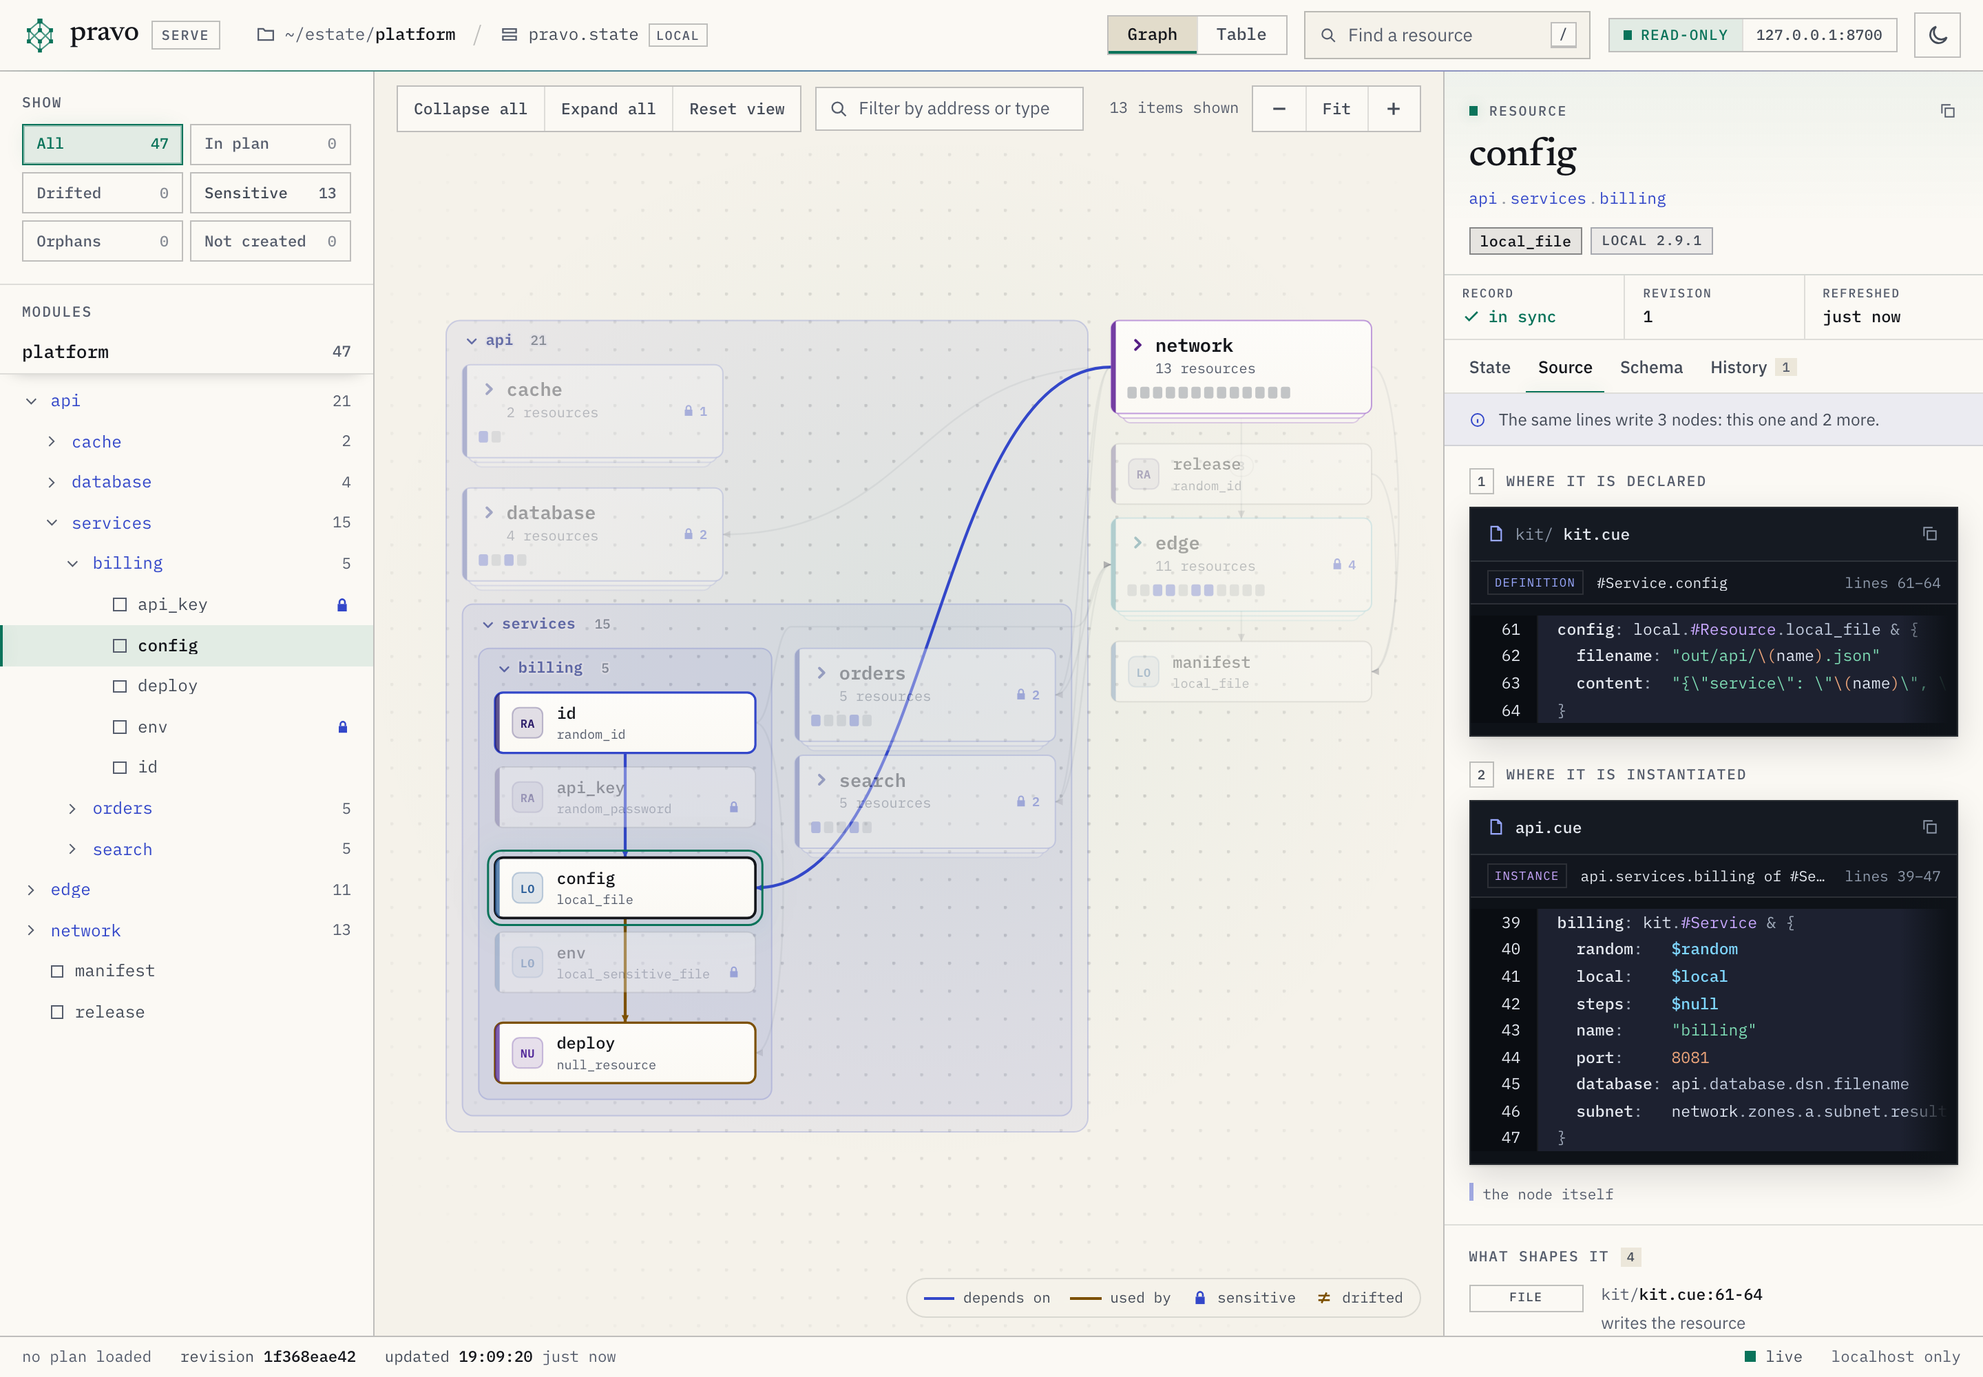
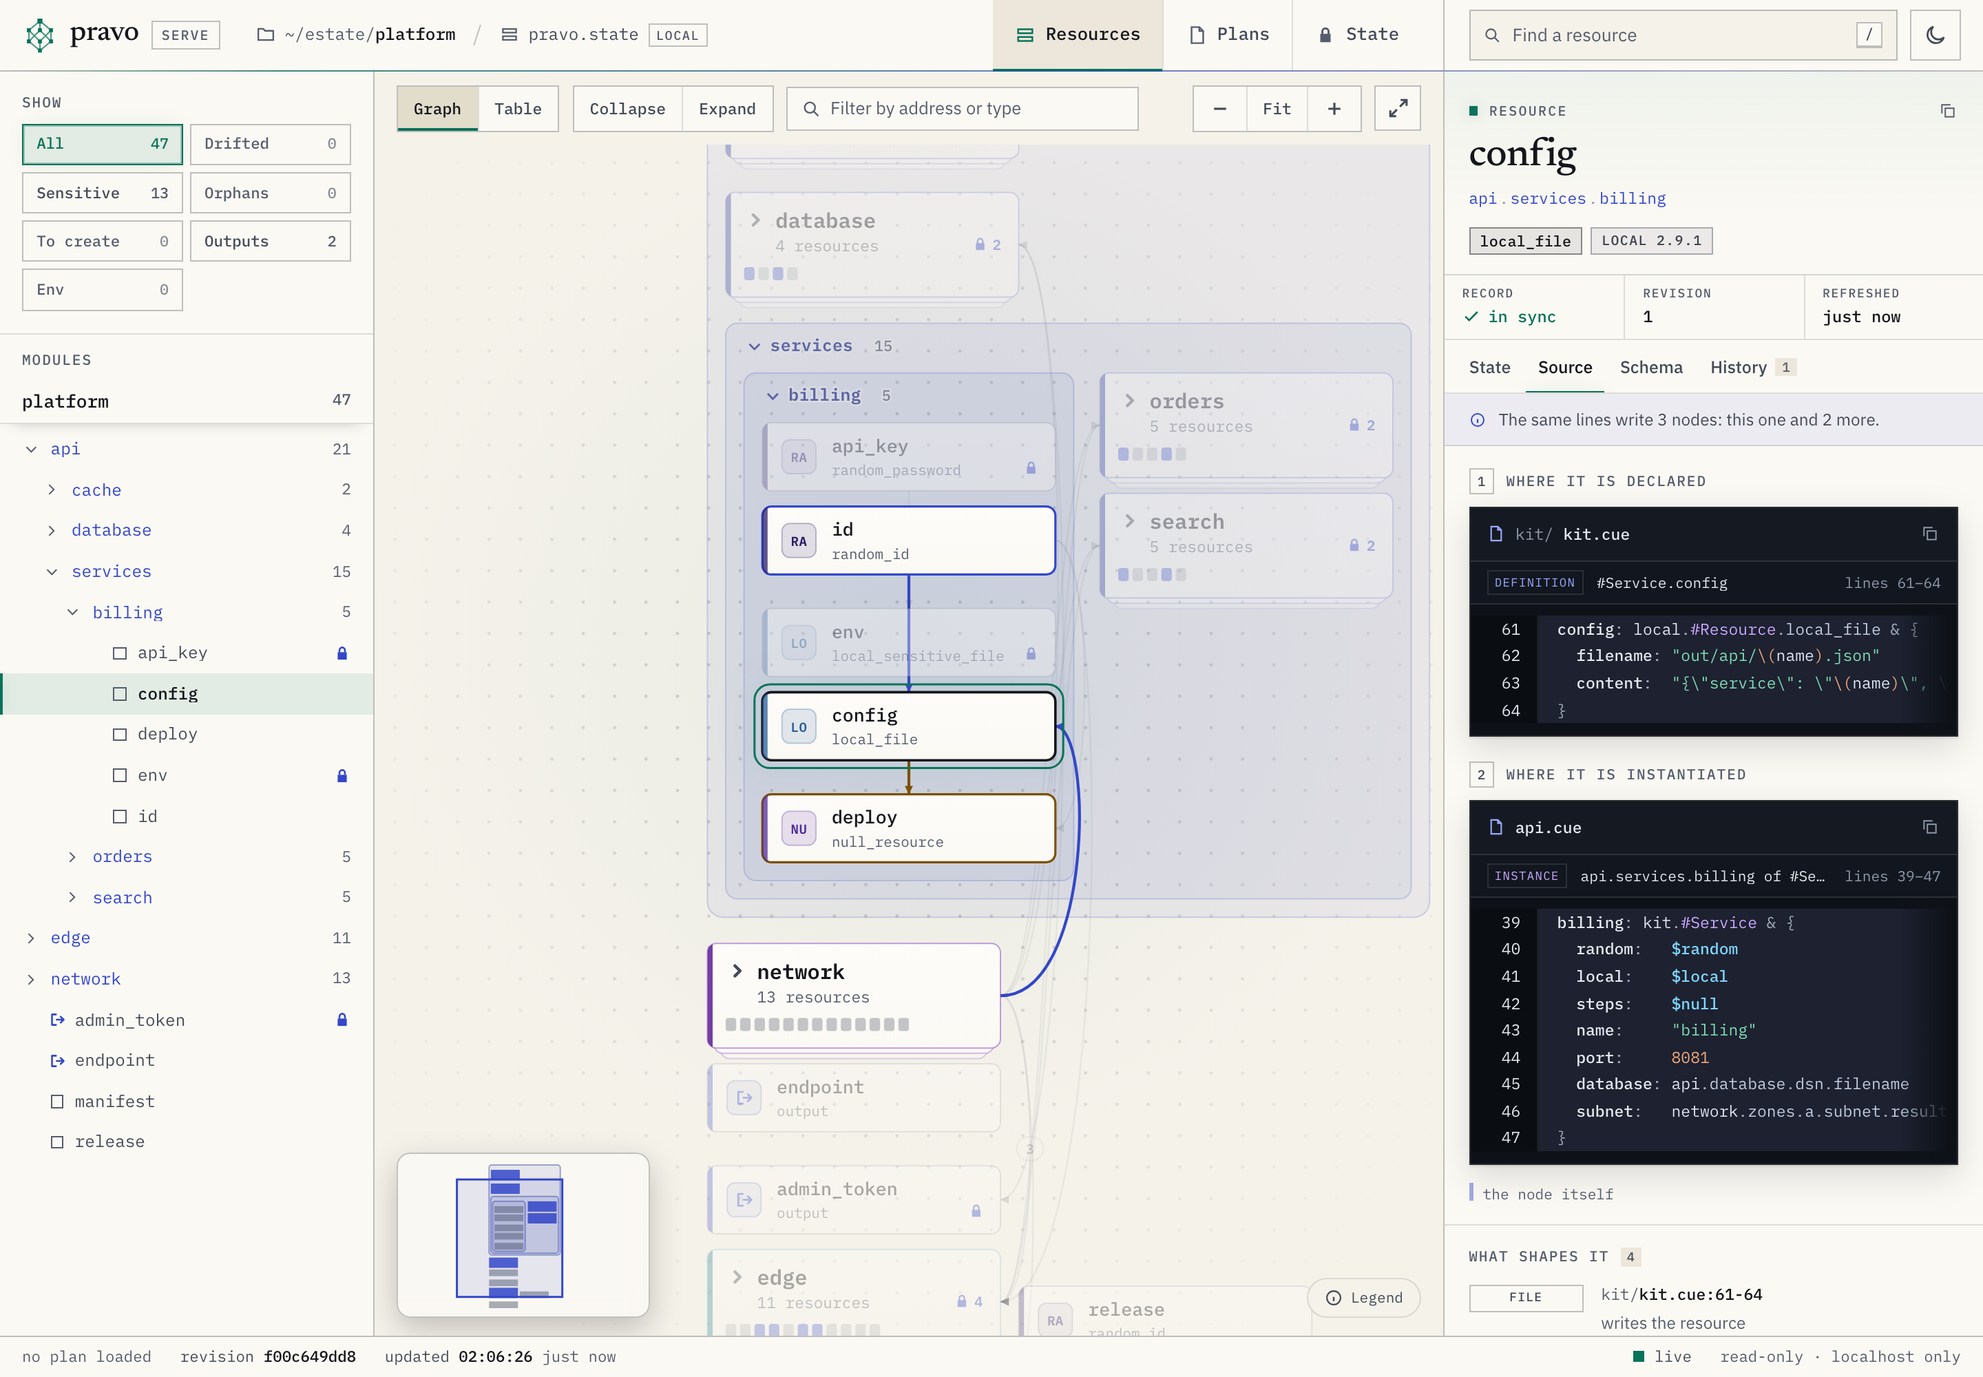
docs: regenerate the screenshots of pravo serve for the new layout, and add the Plans section

diff --git a/internal/serve/web/assets/app.css b/internal/serve/web/assets/app.css
@@ -503,5 +503,6 @@ body[data-full="1"]:has(.app:not([data-sel="1"])) .topright { border-left-color:
 .pl-title { margin: 0 0 .4rem; font: 500 1.5rem/1.15 var(--font-display); letter-spacing: -.01em; }
 .pl-lede { margin: 0 0 1.2rem; color: var(--text-2); font-size: .84rem; line-height: 1.5; }
 .pl .rail-plans { max-height: none; overflow: visible; border-top: 0; padding-top: 0; }
-.pl .rp-head { padding-right: 0; }
+.pl .rp-head { padding-right: 0; justify-content: flex-end; }
+.pl .rp-head .h { display: none; }
 .pl .rp { padding-left: .4rem; padding-right: .4rem; }

diff --git a/tools/serveshots/shots.go b/tools/serveshots/shots.go
@@ -56,7 +56,7 @@ var (
 	fragmentTabs    = []string{"state", "source", "schema", "history", "change"}
 	fragmentThemes  = []string{"light", "dark"}
 	fragmentFilters = []string{"plan", "drifted", "sensitive", "orphans", "declared"}
-	fragmentViews   = []string{"graph", "table", "access"}
+	fragmentViews   = []string{"graph", "table", "access", "plans"}
 )
 
 // String is the fragment without the leading #, in the order of the deep-link
@@ -269,6 +269,8 @@ func allShots() []Shot {
 	// badges and the ring of an overlap; the plan of ana is laid over the graph.
 	// The third expired, and is laid over the graph in its own picture.
 	s = append(s, both("plans", "platform", situationStored, Fragment{Sel: ordersConfig, Tab: "change", Plan: "@ana", Collapse: []string{"network", "edge"}})...)
+	// The Plans section, with the row of the plan of ana open.
+	s = append(s, shot("plans-list-dark", "platform", situationStored, Fragment{View: "plans", Plan: "@ana"}))
 	s = append(s, shot("plan-expired-dark", "platform", situationStored, Fragment{Plan: "@ci", Collapse: []string{"network", "api"}}))
 	s = append(s,
 		shot("drift-dark", "platform", situationChanged, Fragment{Sel: dnsRecords, Tab: "state", Filter: "drifted"}),

diff --git a/tools/serveshots/shots_test.go b/tools/serveshots/shots_test.go
@@ -63,6 +63,7 @@ var wantShots = []string{
 	"source-dark", "source-light",
 	"plan-dark", "plan-light",
 	"plans-dark", "plans-light",
+	"plans-list-dark",
 	"plan-expired-dark",
 	"drift-dark",
 	"sensitive-dark",

diff --git a/docs/how-to/explore-your-estate.md b/docs/how-to/explore-your-estate.md
@@ -172,8 +172,8 @@ pravo serve --plan change.plan
 A resource that the plan changes carries a badge and a ring in the colour of its action, and the legend names create, update, replace, delete and not read. A resource that the plan did not run reads `not read`. The In plan chip counts the resources that the plan changes, and the status bar says how many of the resources the plan ran, as `planned 7 of 48`, and how many it did not read. With nothing selected, the inspector shows the summary of the plan: the resources to add, change, destroy and read, the blast radius, the file and when it was made. A plan that cannot be applied, because the specification or the state changed after it was made, is marked stale and shown with the reasons.
 
 :::figure The platform with a saved plan, with `network` and `edge` closed. The port of `orders` changed, which replaces its configuration, its deploy step and its route. The Change tab of `api.services.orders.config` shows the action, the reasons and the attribute that forces the replacement.
-<a class="shot shot-dark" href="../img/serve/plan-dark.png"><img src="../img/serve/plan-dark.png" width="1440" height="900" alt="The viewer with a saved plan loaded. The module api is open, with the module orders open inside its services lane: its resources config and deploy carry the badge of the action replace. The cards for network and edge show the counts of the changes inside them, and the status bar says planned 7 of 48. The inspector shows the Change tab of api.services.orders.config: the action replace, the reasons the plan gives, the attribute content that forces the replacement, and the content before and after the change." loading="lazy"></a>
-<a class="shot shot-light" href="../img/serve/plan-light.png"><img src="../img/serve/plan-light.png" width="1440" height="900" alt="The viewer with a saved plan loaded. The module api is open, with the module orders open inside its services lane: its resources config and deploy carry the badge of the action replace. The cards for network and edge show the counts of the changes inside them, and the status bar says planned 7 of 48. The inspector shows the Change tab of api.services.orders.config: the action replace, the reasons the plan gives, the attribute content that forces the replacement, and the content before and after the change." loading="lazy"></a>
+<a class="shot shot-dark" href="../img/serve/plan-dark.png"><img src="../img/serve/plan-dark.png" width="1440" height="900" alt="The viewer with a saved plan loaded. A strip under the bar names the plan file, with the counts of its changes and its age. The module api is open, with the module orders open inside its services lane: its resources config and deploy carry the badge of the action replace. The cards for network and edge show the counts of the changes inside them, and the status bar says planned 7 of 48. The inspector shows the Change tab of api.services.orders.config: the action replace, the reasons the plan gives, the attribute content that forces the replacement, and the content before and after the change." loading="lazy"></a>
+<a class="shot shot-light" href="../img/serve/plan-light.png"><img src="../img/serve/plan-light.png" width="1440" height="900" alt="The viewer with a saved plan loaded. A strip under the bar names the plan file, with the counts of its changes and its age. The module api is open, with the module orders open inside its services lane: its resources config and deploy carry the badge of the action replace. The cards for network and edge show the counts of the changes inside them, and the status bar says planned 7 of 48. The inspector shows the Change tab of api.services.orders.config: the action replace, the reasons the plan gives, the attribute content that forces the replacement, and the content before and after the change." loading="lazy"></a>
 :::
 
 The Change tab lists the reasons that the plan gives, the attributes that force a replacement and each attribute that changes with its value before and after. A value that the viewer withholds is withheld in the plan too. A value that is not known until the apply reads `known after apply`.
@@ -191,9 +191,13 @@ The Plans tab of the bar, or `p`, lists the plans of the state. Each row is one 
 
 Click a row to open it. It shows the reason, what overlaps, when the plan expires, the command that made it and the command that applies it, with a button that copies it. A second click, or Esc, closes it. The button View on a row lays the plan over the graph, as a saved plan is in step 6, and goes to Resources. The graph shows its actions, the Change tab shows its attributes, and a strip under the bar names it. The button with the cross in the strip stops showing the plan.
 
-:::figure The platform with the plan of `ana` laid over the graph. The plan of `ben` also replaces what writes `orders`, so those resources carry two discs and a ring, and the sidebar says that the plans overlap.
-<a class="shot shot-dark" href="../img/serve/plans-dark.png"><img src="../img/serve/plans-dark.png" width="1440" height="900" alt="The viewer with a stored plan laid over the graph. The sidebar section Plans lists two pending plans, each titled with the note its author wrote: new ports for orders and search by ben, and move orders to port 9082 by ana, with the plan id in small type under the title. The plan of ana is selected: its row shows a box that says the plans overlap and names the plan of ben, a closed part for the expiry and the command, and the command pravo apply with a button that copies it. A bar above the graph names the plan with the badge A, the chip pending and the counts +3 and -3. In the graph the resources config and deploy of api.services.orders carry the badge of the action replace, a ring, and the discs A and B. The inspector shows the Change tab of config. A Plans cell says that 2 open plans change it, and the attribute content is marked as forcing replacement." loading="lazy"></a>
-<a class="shot shot-light" href="../img/serve/plans-light.png"><img src="../img/serve/plans-light.png" width="1440" height="900" alt="The viewer with a stored plan laid over the graph. The sidebar section Plans lists two pending plans, each titled with the note its author wrote: new ports for orders and search by ben, and move orders to port 9082 by ana, with the plan id in small type under the title. The plan of ana is selected: its row shows a box that says the plans overlap and names the plan of ben, a closed part for the expiry and the command, and the command pravo apply with a button that copies it. A bar above the graph names the plan with the badge A, the chip pending and the counts +3 and -3. In the graph the resources config and deploy of api.services.orders carry the badge of the action replace, a ring, and the discs A and B. The inspector shows the Change tab of config. A Plans cell says that 2 open plans change it, and the attribute content is marked as forcing replacement." loading="lazy"></a>
+:::figure The Plans section. The plan of `ana` is the one laid over the resources, so its row says Viewing and is tinted. Each row carries the status, the author, the age, the counts and a ring for the time that is left.
+<a class="shot" href="../img/serve/plans-list-dark.png"><img src="../img/serve/plans-list-dark.png" width="1440" height="900" alt="The Plans section of the viewer. Two pending plans are listed: new ports for orders and search by ben, and move orders to port 9082 by ana. Each row has the chip pending, the author, the age, the counts, a ring for the time that is left, a mark of two rings for the overlap and the plan id in small type. A View button stands at the right of each row; on the row of ana it reads Viewing and the row is tinted." loading="lazy"></a>
+:::
+
+:::figure The platform with the plan of `ana` laid over the graph. The plan of `ben` also replaces what writes `orders`, so those resources carry two discs and a ring, and the strip under the bar names the plan that is laid over them.
+<a class="shot shot-dark" href="../img/serve/plans-dark.png"><img src="../img/serve/plans-dark.png" width="1440" height="900" alt="The viewer with a stored plan laid over the graph. A strip under the bar names the plan: the badge A, the note move orders to port 9082, the id, the chip pending, the counts +3 and −3, ana and the age, a ring for the time that is left and a cross at the right. The graph shows config and deploy of orders with the action replace, each with the discs A and B and a ring where the two plans overlap. The inspector shows the Change tab of config: replace, the reasons and the content that changes." loading="lazy"></a>
+<a class="shot shot-light" href="../img/serve/plans-light.png"><img src="../img/serve/plans-light.png" width="1440" height="900" alt="The viewer with a stored plan laid over the graph. A strip under the bar names the plan: the badge A, the note move orders to port 9082, the id, the chip pending, the counts +3 and −3, ana and the age, a ring for the time that is left and a cross at the right. The graph shows config and deploy of orders with the action replace, each with the discs A and B and a ring where the two plans overlap. The inspector shows the Change tab of config: replace, the reasons and the content that changes." loading="lazy"></a>
 :::
 
 Look for the discs before you apply. Each disc on a resource is the initial of the author of a plan that can be applied and changes it. A resource with two discs and a ring is one that two people have planned and not applied. A plan that has applied its change on a resource has no disc there. Applying one of the plans makes the other stale, or partly stale when its other changes can still be applied, because the resource is then at another revision. The Plans cell of the resource, above the tabs, lists the plans, and a click on a disc lays that plan over the graph. The legend names `plan author` and `overlap`.
@@ -204,8 +208,8 @@ The viewer applies nothing and has no control that approves or removes a plan. C
 
 Choose All to list the plans that cannot be applied: the stale, the applied and the expired, until a collection removes them. A plan that cannot be applied has no command to copy, and none of its resources carries a disc.
 
-:::figure The plan of `ci` under All. It expired two days ago. Its row has a note instead of a command, and the inspector shows the plan: its counts, who made it, when it expired, the reason and the command that made it.
-<a class="shot" href="../img/serve/plan-expired-dark.png"><img src="../img/serve/plan-expired-dark.png" width="1440" height="900" alt="The viewer with the plan of ci laid over the graph after it expired. The list is set to All and shows three plans. The plan titled listen on 8443 at the edge has the chip expired in a dashed outline, and its row says that the plan expired and will be collected. The graph shows the two resources of edge.balancer, config and reload, that the plan replaces. The inspector shows the stored plan: 2 of 47 resources planned and 45 not read, 2 to add and 2 to destroy, who made it, when it expires, the reason and the command." loading="lazy"></a>
+:::figure The plan of `ci`, which expired two days ago, laid over the graph. The strip names it and has no ring, since an expired plan has no time left.
+<a class="shot" href="../img/serve/plan-expired-dark.png"><img src="../img/serve/plan-expired-dark.png" width="1440" height="900" alt="The viewer with the plan of ci laid over the graph after it expired. A strip under the bar names it: the badge C, the note listen on 8443 at the edge, the id, the chip expired in a dashed outline, the counts +2 and −2, and ci with the age, 9 d ago. It has no ring, because an expired plan has no time left. The graph shows the two resources of edge.balancer, config and reload, that the plan replaces. The inspector shows the project, since no resource is selected." loading="lazy"></a>
 :::
 
 Leave the viewer open and the list follows the state. A plan that a teammate stores gets a row, and a notice names it. The status of a plan changes when an apply from it records progress, and when something else changes a resource it expects. A plan that is collected leaves the list, and a plan that expires without an apply moves to All. When the plan that is laid over the graph is collected, a notice says so and the graph shows no plan.

diff --git a/skills/pravo/references/how-to/explore-your-estate.md b/skills/pravo/references/how-to/explore-your-estate.md
@@ -165,7 +165,9 @@ The Plans tab of the bar, or `p`, lists the plans of the state. Each row is one 
 
 Click a row to open it. It shows the reason, what overlaps, when the plan expires, the command that made it and the command that applies it, with a button that copies it. A second click, or Esc, closes it. The button View on a row lays the plan over the graph, as a saved plan is in step 6, and goes to Resources. The graph shows its actions, the Change tab shows its attributes, and a strip under the bar names it. The button with the cross in the strip stops showing the plan.
 
-*Figure: The platform with the plan of ana laid over the graph. The plan of ben also replaces what writes orders, so those resources carry two discs and a ring, and the sidebar says that the plans overlap.*
+*Figure: The Plans section. The plan of ana is the one laid over the resources, so its row says Viewing and is tinted. Each row carries the status, the author, the age, the counts and a ring for the time that is left.*
+
+*Figure: The platform with the plan of ana laid over the graph. The plan of ben also replaces what writes orders, so those resources carry two discs and a ring, and the strip under the bar names the plan that is laid over them.*
 
 Look for the discs before you apply. Each disc on a resource is the initial of the author of a plan that can be applied and changes it. A resource with two discs and a ring is one that two people have planned and not applied. A plan that has applied its change on a resource has no disc there. Applying one of the plans makes the other stale, or partly stale when its other changes can still be applied, because the resource is then at another revision. The Plans cell of the resource, above the tabs, lists the plans, and a click on a disc lays that plan over the graph. The legend names `plan author` and `overlap`.
 
@@ -175,7 +177,7 @@ The viewer applies nothing and has no control that approves or removes a plan. C
 
 Choose All to list the plans that cannot be applied: the stale, the applied and the expired, until a collection removes them. A plan that cannot be applied has no command to copy, and none of its resources carries a disc.
 
-*Figure: The plan of ci under All. It expired two days ago. Its row has a note instead of a command, and the inspector shows the plan: its counts, who made it, when it expired, the reason and the command that made it.*
+*Figure: The plan of ci, which expired two days ago, laid over the graph. The strip names it and has no ring, since an expired plan has no time left.*
 
 Leave the viewer open and the list follows the state. A plan that a teammate stores gets a row, and a notice names it. The status of a plan changes when an apply from it records progress, and when something else changes a resource it expects. A plan that is collected leaves the list, and a plan that expires without an apply moves to All. When the plan that is laid over the graph is collected, a notice says so and the graph shows no plan.
 
